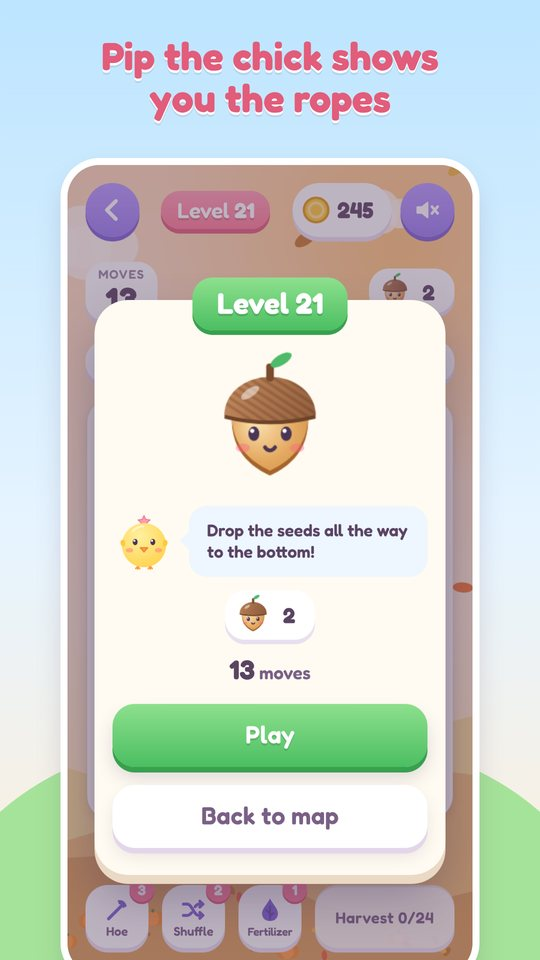
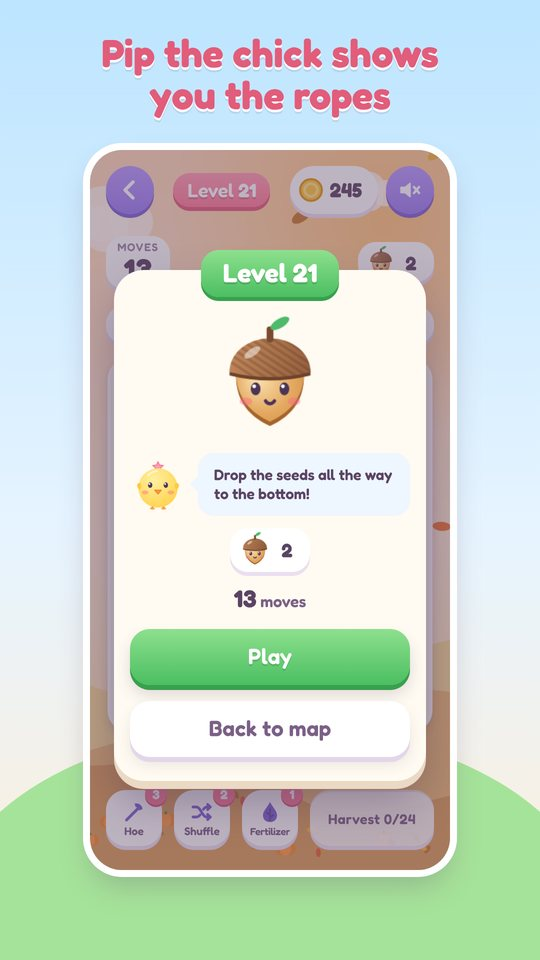
Starfurrow page: screenshots show the whole phone
Claude-Session: https://claude.ai/code/session_01S1vzQxL1yGUYwtoxYJWhmN

diff --git a/starfurrow/index.html b/starfurrow/index.html
@@ -42,7 +42,7 @@
       </div>
       <p class="note">Free to play · No account needed · Plays offline</p>
     </div>
-    <img class="feature" src="assets/og.jpg?v=2" width="1024" height="500" alt="Starfurrow: Pip the chick and farm friends on a link puzzle board">
+    <img class="feature" src="assets/og.jpg?v=3" width="1024" height="500" alt="Starfurrow: Pip the chick and farm friends on a link puzzle board">
   </section>
 
   <section>
@@ -74,14 +74,14 @@
   <section>
     <h2 class="sec">Take a look</h2>
     <ul class="shots" aria-label="Screenshots. Scroll sideways to see more.">
-      <li><a href="assets/shots/01-big.jpg?v=2"><img src="assets/shots/01.jpg?v=2" width="200" height="356" loading="lazy" alt="Link cute farm friends"></a></li>
-      <li><a href="assets/shots/02-big.jpg?v=2"><img src="assets/shots/02.jpg?v=2" width="200" height="356" loading="lazy" alt="190 levels in 19 worlds"></a></li>
-      <li><a href="assets/shots/03-big.jpg?v=2"><img src="assets/shots/03.jpg?v=2" width="200" height="356" loading="lazy" alt="Free butterflies in fairy land"></a></li>
-      <li><a href="assets/shots/04-big.jpg?v=2"><img src="assets/shots/04.jpg?v=2" width="200" height="356" loading="lazy" alt="Light up the firefly forest"></a></li>
-      <li><a href="assets/shots/05-big.jpg?v=2"><img src="assets/shots/05.jpg?v=2" width="200" height="356" loading="lazy" alt="Knock down giant haystacks"></a></li>
-      <li><a href="assets/shots/06-big.jpg?v=2"><img src="assets/shots/06.jpg?v=2" width="200" height="356" loading="lazy" alt="Grow Pip's farm and orchard"></a></li>
-      <li><a href="assets/shots/07-big.jpg?v=2"><img src="assets/shots/07.jpg?v=2" width="200" height="356" loading="lazy" alt="Races, daily puzzles and festivals"></a></li>
-      <li><a href="assets/shots/08-big.jpg?v=2"><img src="assets/shots/08.jpg?v=2" width="200" height="356" loading="lazy" alt="Pip the chick shows you the ropes"></a></li>
+      <li><a href="assets/shots/01-big.jpg?v=3"><img src="assets/shots/01.jpg?v=3" width="200" height="356" loading="lazy" alt="Link cute farm friends"></a></li>
+      <li><a href="assets/shots/02-big.jpg?v=3"><img src="assets/shots/02.jpg?v=3" width="200" height="356" loading="lazy" alt="190 levels in 19 worlds"></a></li>
+      <li><a href="assets/shots/03-big.jpg?v=3"><img src="assets/shots/03.jpg?v=3" width="200" height="356" loading="lazy" alt="Free butterflies in fairy land"></a></li>
+      <li><a href="assets/shots/04-big.jpg?v=3"><img src="assets/shots/04.jpg?v=3" width="200" height="356" loading="lazy" alt="Light up the firefly forest"></a></li>
+      <li><a href="assets/shots/05-big.jpg?v=3"><img src="assets/shots/05.jpg?v=3" width="200" height="356" loading="lazy" alt="Knock down giant haystacks"></a></li>
+      <li><a href="assets/shots/06-big.jpg?v=3"><img src="assets/shots/06.jpg?v=3" width="200" height="356" loading="lazy" alt="Grow Pip's farm and orchard"></a></li>
+      <li><a href="assets/shots/07-big.jpg?v=3"><img src="assets/shots/07.jpg?v=3" width="200" height="356" loading="lazy" alt="Races, daily puzzles and festivals"></a></li>
+      <li><a href="assets/shots/08-big.jpg?v=3"><img src="assets/shots/08.jpg?v=3" width="200" height="356" loading="lazy" alt="Pip the chick shows you the ropes"></a></li>
     </ul>
   </section>
 
